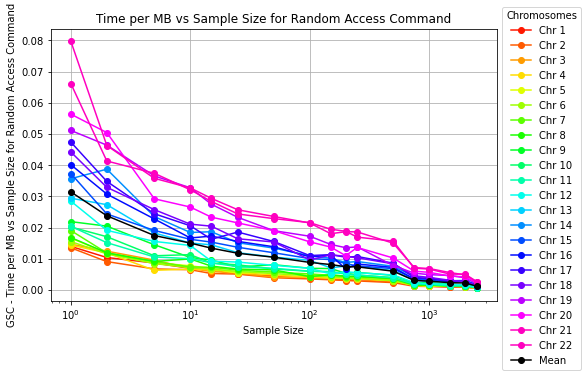
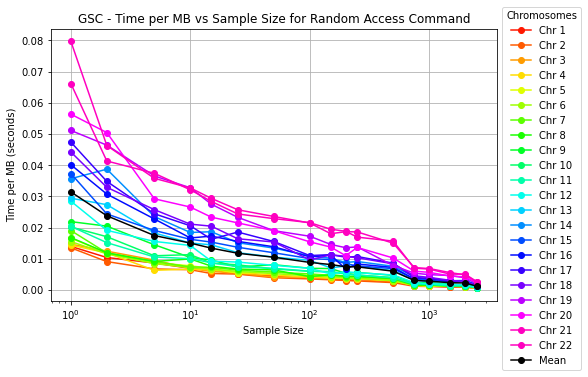
Update plots GSC

Changed region(s): [[0.0, 0.0, 0.0306, 0.7878], [0.1224, 0.0292, 0.7959, 0.0875], [0.0, 0.817, 0.0306, 0.8753]]

diff --git a/Codes/RAMperMB_vs_SampleSize.py b/Codes/RAMperMB_vs_SampleSize.py
@@ -12,7 +12,7 @@ import matplotlib.pyplot as plt
 #%%
 ################# ALL CHROM, SOME TESTS ##########################
 # Load the CSV file
-algo = "GSC"
+algo = "SVC"
 df = pd.read_csv("E:/VM_data/Git/VCF_compression_benchmarking/Data/"+algo+"_ALLchrom.csv")
 
 
@@ -158,15 +158,33 @@ if algo=="GSC":
     plt.savefig("E:\VM_data\Git\VCF_compression_benchmarking\Images\\" + titre, bbox_inches='tight')
     plt.show()
     
+    
     # Plot for the "decompress_one_sample" command
-    plt.figure(figsize=(8, 5))
+    #plt.figure(figsize=(8, 5))
     for chromosome, group in decompress_one_sample_df.groupby('Chromosome'):
-        plt.plot(group['Sample_Size'], group['Memory_Used_MB'], marker='o', color=color_map[chromosome], label=f'Chr {chromosome}')
+        plt.plot(group['Sample_Size'], group['Memory_Used_MB'],marker='o', color=color_map[chromosome], label=f'Chr {chromosome}')
     plt.plot(ALL_decompress_one_sample_df['Sample_Size'], ALL_decompress_one_sample_df['Memory_Used_MB'],marker='o', color='black', label="Mean")
     plt.xlabel('Sample Size')
     plt.ylabel('RAM (MB)')
     plt.xscale("log")
     titre = algo +' - RAM vs Sample Size for Decompress_one_sample Command'
+    plt.title(titre)
+    plt.legend(title='Chromosomes')#,bbox_to_anchor=(1.2, 1.1))
+    plt.grid(True)
+    #plt.savefig("E:\VM_data\Git\VCF_compression_benchmarking\Images\\" + titre, bbox_inches='tight')
+    plt.show()
+    
+    plt.figure(figsize=(8, 5))
+    for chromosome, group in decompress_df.groupby('Chromosome'):
+        plt.plot(group['Sample_Size'], group['Memory_Used_MB'], '--r', marker='o', color=color_map[chromosome],alpha = 0.5, label=f'Chr {chromosome} (complete)')
+    plt.plot(ALL_decompress_df['Sample_Size'], ALL_decompress_df['Memory_Used_MB'], '--r',marker='o', color='black',alpha = 0.5, label="Mean (complete)")
+    for chromosome, group in decompress_one_sample_df.groupby('Chromosome'):
+        plt.plot(group['Sample_Size'], group['Memory_Used_MB'], marker='o', color=color_map[chromosome], label=f'Chr {chromosome} (1 sample)')
+    plt.plot(ALL_decompress_one_sample_df['Sample_Size'], ALL_decompress_one_sample_df['Memory_Used_MB'],marker='o', color='black', label="Mean (1 sample)")
+    plt.xlabel('Sample Size')
+    plt.ylabel('RAM (MB)')
+    plt.xscale("log")
+    titre = algo +' - Comparison RAM vs Sample Size for complete and one sample Decompress Command '
     plt.title(titre)
     plt.legend(title='Chromosomes')#,bbox_to_anchor=(1.2, 1.1))
     plt.grid(True)
@@ -188,13 +206,28 @@ if algo=="GSC":
     plt.savefig("E:\VM_data\Git\VCF_compression_benchmarking\Images\\" + titre, bbox_inches='tight')
     plt.show()
     
+    plt.figure(figsize=(8, 5))
+    for chromosome, group in random_access_df.groupby('Chromosome'):
+        plt.plot(group['Sample_Size'], group['Memory_Used_MB'], marker='o', color=color_map[chromosome], label=f'Chr {chromosome}')
+    plt.plot(ALL_random_access_df['Sample_Size'], ALL_random_access_df['Memory_Used_MB'],marker='o', color='black', label="Mean")
+    plt.xlabel('Sample Size')
+    plt.ylabel('RAM (MB)')
+    plt.xscale("log")
+    titre = algo +' - RAM vs Sample Size for Random Access Command (bis)'
+    plt.title(titre)
+    plt.legend(title='Chromosomes')#,bbox_to_anchor=(1.2, 1.1))
+    plt.grid(True)
+    plt.savefig("E:\VM_data\Git\VCF_compression_benchmarking\Images\\" + titre, bbox_inches='tight')
+    plt.show()
+    
+    
     # Plot for the "random_access_one_sample" command
     plt.figure(figsize=(8, 5))
     for chromosome, group in random_access_one_sample_df.groupby('Chromosome'):
         plt.plot(group['Sample_Size'], group['Memory_Used_MB'], marker='o', color=color_map[chromosome], label=f'Chr {chromosome}')
     plt.plot(ALL_random_access_one_sample_df['Sample_Size'], ALL_random_access_one_sample_df['Memory_Used_MB'],marker='o', color='black', label="Mean")
     plt.xlabel('Sample Size')
-    plt.ylabel('RAM')
+    plt.ylabel('RAM (MB)')
     plt.xscale("log")
     titre = algo +' - RAM vs Sample Size for Random access_one_sample Command'
     plt.title(titre)
@@ -202,3 +235,20 @@ if algo=="GSC":
     plt.grid(True)
     plt.savefig("E:\VM_data\Git\VCF_compression_benchmarking\Images\\" + titre, bbox_inches='tight')
     plt.show()
+
+    plt.figure(figsize=(8, 5))
+    for chromosome, group in random_access_df.groupby('Chromosome'):
+        plt.plot(group['Sample_Size'], group['Memory_Used_MB'], '--r', marker='o', color=color_map[chromosome],alpha = 0.5, label=f'Chr {chromosome} (complete)')
+    plt.plot(ALL_random_access_df['Sample_Size'], ALL_random_access_df['Memory_Used_MB'], '--r',marker='o', color='black',alpha = 0.5, label="Mean (complete)")
+    for chromosome, group in random_access_one_sample_df.groupby('Chromosome'):
+        plt.plot(group['Sample_Size'], group['Memory_Used_MB'], marker='o', color=color_map[chromosome], label=f'Chr {chromosome} (1 sample)')
+    plt.plot(ALL_random_access_one_sample_df['Sample_Size'], ALL_random_access_one_sample_df['Memory_Used_MB'],marker='o', color='black', label="Mean (1 sample)")
+    plt.xlabel('Sample Size')
+    plt.ylabel('RAM (MB)')
+    plt.xscale("log")
+    titre = algo +' - Comparison RAM vs Sample Size for complete and one sample Random Access Command '
+    plt.title(titre)
+    plt.legend(title='Chromosomes')#,bbox_to_anchor=(1.2, 1.1))
+    plt.grid(True)
+    plt.savefig("E:\VM_data\Git\VCF_compression_benchmarking\Images\\" + titre, bbox_inches='tight')
+    plt.show()    

diff --git a/Codes/TimePerMB_vs_SampleSize.py b/Codes/TimePerMB_vs_SampleSize.py
@@ -13,7 +13,7 @@ import numpy as np
 #%%
 ################# ALL CHROM, SOME TESTS ##########################
 # Load the CSV file
-algo = "GSC"
+algo = "SVC"
 df = pd.read_csv("E:/VM_data/Git/VCF_compression_benchmarking/Data/"+algo+"_ALLchrom.csv")
 
 # Convert Time_Taken from 'MM:SS.ss' to total seconds
@@ -90,9 +90,9 @@ for chromosome, group in random_access_df.groupby('Chromosome'):
 plt.plot(ALL_random_access_df['Sample_Size'], ALL_random_access_df['Time_per_MB'],marker='o', color='black', label="Mean")
 plt.xlabel('Sample Size')
 plt.xscale("log")
+plt.ylabel('Time per MB (seconds)')
 titre = algo +' - Time per MB vs Sample Size for Random Access Command'
-plt.ylabel(titre)
-plt.title('Time per MB vs Sample Size for Random Access Command')
+plt.title(titre)
 plt.legend(title='Chromosomes',bbox_to_anchor=(1.2, 1.1))
 plt.grid(True)
 plt.savefig("E:\VM_data\Git\VCF_compression_benchmarking\Images\\" + titre, bbox_inches='tight')
@@ -176,6 +176,7 @@ if algo == "GSC":
     plt.grid(True)
     plt.savefig("E:\VM_data\Git\VCF_compression_benchmarking\Images\\" + titre, bbox_inches='tight')
     plt.show()
+
     
     # Plot for the "decompress_one_sample" command
     plt.figure(figsize=(8, 5))
@@ -192,6 +193,26 @@ if algo == "GSC":
     plt.savefig("E:\VM_data\Git\VCF_compression_benchmarking\Images\\" + titre, bbox_inches='tight')
     plt.show()
     
+        
+    # Plot for the "decompress" command
+    plt.figure(figsize=(8, 5))
+    for chromosome, group in decompress_df.groupby('Chromosome'):
+        plt.plot(group['Sample_Size'], group['Time_Seconds'], '--r', marker='o',color=color_map[chromosome], alpha = 0.5, label=f'Chr {chromosome} (complete)')
+    plt.plot(ALL_decompress_df['Sample_Size'], ALL_decompress_df['Time_Seconds'], '--r',marker='o', color='black', alpha = 0.5, label="Mean (complete)")
+    for chromosome, group in decompress_one_sample_df.groupby('Chromosome'):
+        plt.plot(group['Sample_Size'], group['Time_Seconds'], marker='o', color=color_map[chromosome], label=f'Chr {chromosome} (1 sample)')
+    plt.plot(ALL_decompress_one_sample_df['Sample_Size'], ALL_decompress_one_sample_df['Time_Seconds'],marker='o', color='black', label="Mean (1 sample)")
+    plt.xlabel('Sample Size')
+    plt.ylabel('Time (seconds)')
+    plt.xscale("log")
+    titre = algo +' - Comparison Time vs Sample Size for complete and one sample Decompress Command'
+    plt.title(titre)
+    plt.legend(title='Chromosomes')#,bbox_to_anchor=(1.21, 1))
+    plt.grid(True)
+    plt.savefig("E:\VM_data\Git\VCF_compression_benchmarking\Images\\" + titre, bbox_inches='tight')
+    plt.show()
+    
+    
     # Plot for the "random_access" command with averaged Time_per_MB
     plt.figure(figsize=(8, 5))
     for chromosome, group in random_access_df.groupby('Chromosome'):
@@ -206,7 +227,7 @@ if algo == "GSC":
     plt.grid(True)
     plt.savefig("E:\VM_data\Git\VCF_compression_benchmarking\Images\\" + titre, bbox_inches='tight')
     plt.show()
-    
+
     
     # Plot for the "random_access" command with averaged Time_Seconds
     plt.figure(figsize=(8, 5))
@@ -219,6 +240,24 @@ if algo == "GSC":
     titre = algo +' - Time vs Sample Size for Random Access_one_sample Command'
     plt.title(titre)
     plt.legend(title='Chromosomses')#,bbox_to_anchor=(1.21, 1))
+    plt.grid(True)
+    plt.savefig("E:\VM_data\Git\VCF_compression_benchmarking\Images\\" + titre, bbox_inches='tight')
+    plt.show()
+    
+    # Plot for the "decompress" command
+    plt.figure(figsize=(8, 5))
+    for chromosome, group in random_access_df.groupby('Chromosome'):
+        plt.plot(group['Sample_Size'], group['Time_Seconds'], '--r', marker='o',color=color_map[chromosome], alpha = 0.5, label=f'Chr {chromosome} (complete)')
+    plt.plot(ALL_random_access_df['Sample_Size'], ALL_random_access_df['Time_Seconds'], '--r',marker='o', color='black', alpha = 0.5, label="Mean (complete)")
+    for chromosome, group in random_access_one_sample_df.groupby('Chromosome'):
+        plt.plot(group['Sample_Size'], group['Time_Seconds'], marker='o', color=color_map[chromosome], label=f'Chr {chromosome} (1 sample)')
+    plt.plot(ALL_random_access_one_sample_df['Sample_Size'], ALL_random_access_one_sample_df['Time_Seconds'],marker='o', color='black', label="Mean (1 sample)")
+    plt.xlabel('Sample Size')
+    plt.ylabel('Time (seconds)')
+    plt.xscale("log")
+    titre = algo +' - Comparison Time vs Sample Size for complete and one sample Random Access Command'
+    plt.title(titre)
+    plt.legend(title='Chromosomes')#,bbox_to_anchor=(1.21, 1))
     plt.grid(True)
     plt.savefig("E:\VM_data\Git\VCF_compression_benchmarking\Images\\" + titre, bbox_inches='tight')
     plt.show()
